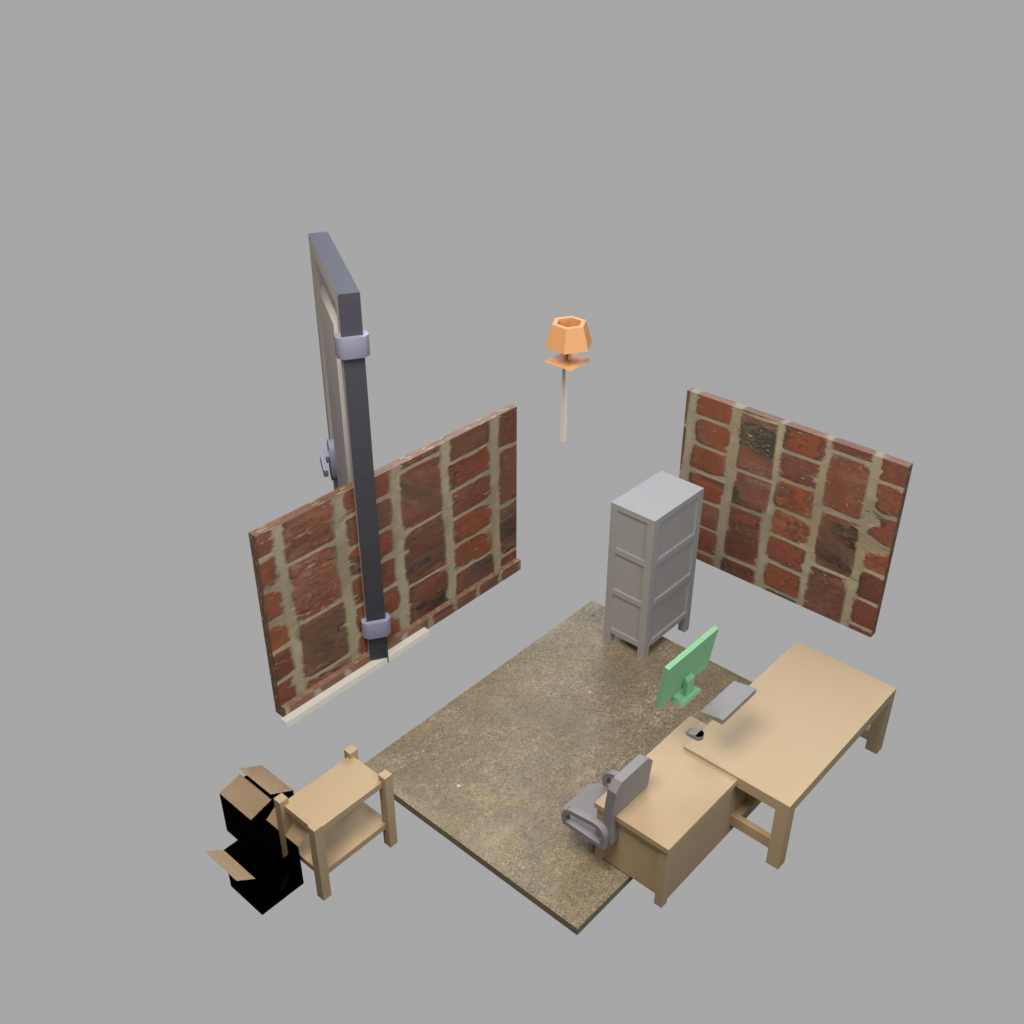
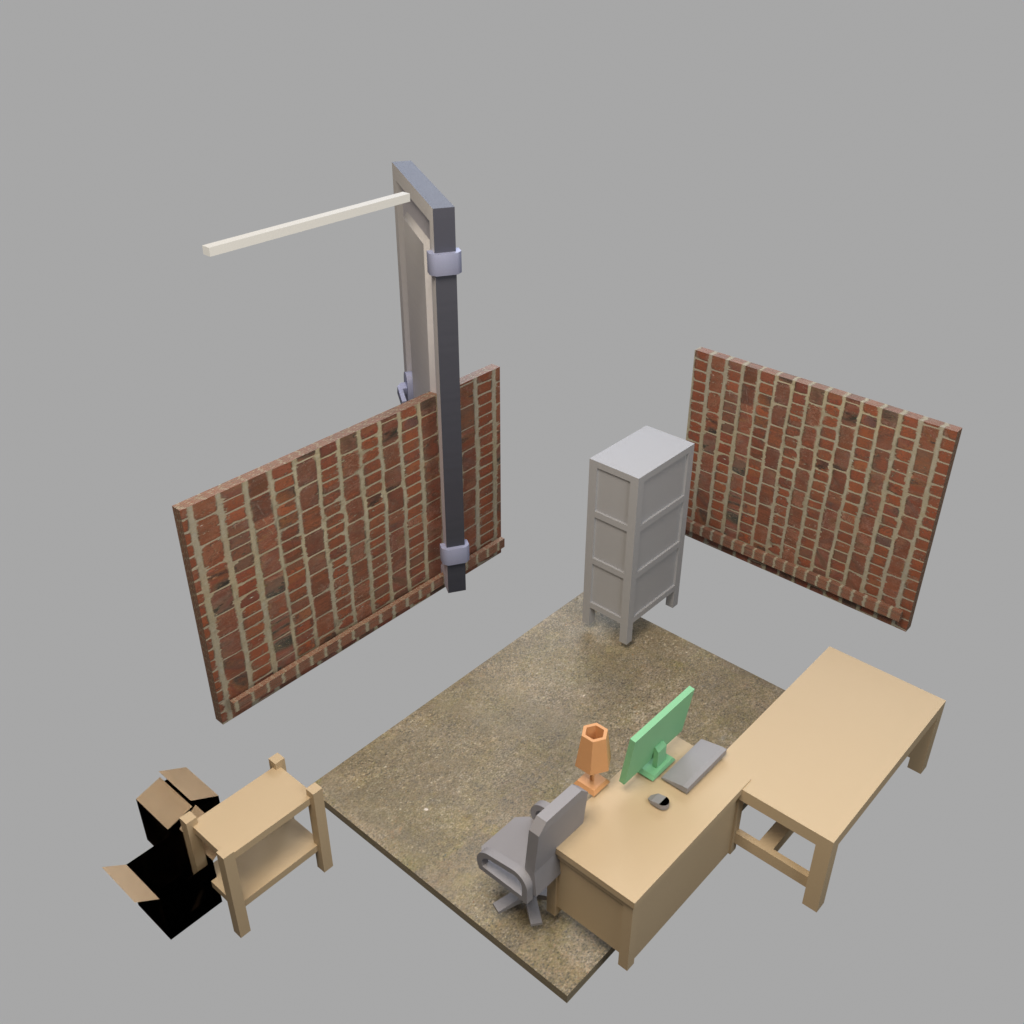
fix(art): #93 snap L walls, door cut, desk lamp, prop bounds
- Separate back/side walls on floor slab edges z=0; brick UV ~4.2
- Boolean door opening; roll door at floor; lamp on desk; tighter layout
- Hard gate bounds_violations + 2cm floor on FLOOR_TOP; hero extent ~0.70

Ref #93

Changed region(s): [[0.0938, 0.1562, 0.9375, 1.0], [0.5312, 0.3125, 0.5938, 0.375], [0.4688, 0.75, 0.5, 0.7812]]

diff --git a/tools/art/blender/garage-scene-hero-compose.py b/tools/art/blender/garage-scene-hero-compose.py
@@ -1,5 +1,5 @@
 #!/usr/bin/env python3
-"""Cut-away garage hero — joined L walls + ambientCG PBR + Kenney whole models."""
+"""Cut-away garage — floor-edge L walls, ambientCG PBR, Kenney whole models."""
 from __future__ import annotations
 
 import json
@@ -19,11 +19,31 @@ WALL_H = 2.45
 WALL_T = 0.12
 FLOOR_Z = 0.0
 FLOOR_TOL = 0.02
+FLOOR_TOP = 0.09
+MARGIN_XY = 0.06
 
-CEILING_KEYS = {"ceiling_light", "light_cable"}
-DESK_TOP_KEYS = {"monitor", "keyboard", "mouse", "computerScreen", "computerKeyboard", "computerMouse"}
-WALL_KEYS = {"roll_door", "strip_light", "building_door"}
-SHELL_NAMES = ("shell_floor", "shell_walls_L", "shell_skirting", "strip_light")
+CEILING_KEYS = {"light_cable"}
+DESK_TOP_KEYS = {"monitor", "keyboard", "mouse", "desk_lamp"}
+WALL_KEYS = {"roll_door", "strip_light"}
+SHELL_NAMES = (
+    "shell_floor",
+    "shell_wall_back",
+    "shell_wall_side",
+    "shell_skirting",
+    "shell_skirting_side",
+    "strip_light",
+)
+
+BRICK_UV = 4.2
+CONCRETE_UV = 2.2
+
+
+def _snap_bottom_z(ob: bpy.types.Object, floor: float = 0.0) -> None:
+    bpy.context.view_layer.update()
+    low = min((ob.matrix_world @ v.co).z for v in ob.data.vertices)
+    if abs(low - floor) > 1e-5:
+        ob.location.z += floor - low
+    bpy.context.view_layer.update()
 
 
 def _cube(loc: tuple[float, float, float], scale: tuple[float, float, float]) -> bpy.types.Object:
@@ -35,7 +55,7 @@ def _cube(loc: tuple[float, float, float], scale: tuple[float, float, float]) ->
 
 
 def _strip_light() -> bpy.types.Object:
-    ob = _cube((ROOM_W * 0.62, 0.16, WALL_H - 0.18), (ROOM_W * 0.28, 0.05, 0.04))
+    ob = _cube((ROOM_W * 0.55, WALL_T + 0.04, WALL_H - 0.16), (ROOM_W * 0.26, 0.045, 0.035))
     ob.name = "strip_light"
     mat = bpy.data.materials.new("strip_light_emit")
     mat.use_nodes = True
@@ -45,12 +65,11 @@ def _strip_light() -> bpy.types.Object:
     out = nodes.new("ShaderNodeOutputMaterial")
     emit = nodes.new("ShaderNodeEmission")
     emit.inputs["Color"].default_value = (0.92, 0.9, 0.82, 1.0)
-    emit.inputs["Strength"].default_value = 1.1
+    emit.inputs["Strength"].default_value = 1.0
     bsdf = nodes.new("ShaderNodeBsdfPrincipled")
-    bsdf.inputs["Base Color"].default_value = (0.78, 0.76, 0.7, 1.0)
     bsdf.inputs["Roughness"].default_value = 0.55
     mix = nodes.new("ShaderNodeMixShader")
-    mix.inputs["Fac"].default_value = 0.55
+    mix.inputs["Fac"].default_value = 0.5
     links.new(emit.outputs["Emission"], mix.inputs[1])
     links.new(bsdf.outputs["BSDF"], mix.inputs[2])
     links.new(mix.outputs["Shader"], out.inputs["Surface"])
@@ -59,83 +78,91 @@ def _strip_light() -> bpy.types.Object:
     return ob
 
 
-def build_shell(acg) -> list[bpy.types.Object]:
-    floor = _cube((ROOM_W * 0.5, ROOM_D * 0.5, 0.045), (ROOM_W * 0.5, ROOM_D * 0.5, 0.045))
+def build_shell(acg) -> None:
+    floor = _cube((ROOM_W * 0.5, ROOM_D * 0.5, FLOOR_TOP * 0.5), (ROOM_W * 0.5, ROOM_D * 0.5, FLOOR_TOP * 0.5))
     floor.name = "shell_floor"
-    acg.assign(floor, "concrete", uv_scale=2.2)
+    acg.assign(floor, "concrete", uv_scale=CONCRETE_UV)
 
-    back = _cube((ROOM_W * 0.5, WALL_T * 0.5, WALL_H * 0.5), (ROOM_W * 0.5, WALL_T * 0.5, WALL_H * 0.5))
-    side = _cube((WALL_T * 0.5, ROOM_D * 0.5, WALL_H * 0.5), (WALL_T * 0.5, ROOM_D * 0.5, WALL_H * 0.5))
-    bpy.ops.object.select_all(action="DESELECT")
-    back.select_set(True)
-    side.select_set(True)
-    bpy.context.view_layer.objects.active = back
-    bpy.ops.object.join()
-    walls = bpy.context.active_object
-    walls.name = "shell_walls_L"
-    cutter = _cube((ROOM_W * 0.58, 0.22, 1.15), (0.52, 0.18, 1.02))
+    back = _cube(
+        (ROOM_W * 0.5, WALL_T * 0.5, WALL_H * 0.5),
+        (ROOM_W * 0.5, WALL_T * 0.5, WALL_H * 0.5),
+    )
+    back.name = "shell_wall_back"
+    side = _cube(
+        (WALL_T * 0.5, ROOM_D * 0.5, WALL_H * 0.5),
+        (WALL_T * 0.5, ROOM_D * 0.5, WALL_H * 0.5),
+    )
+    side.name = "shell_wall_side"
+    for ob in (floor, back, side):
+        _snap_bottom_z(ob, FLOOR_Z)
+
+    cutter = _cube((1.55, WALL_T + 0.12, 1.12), (0.48, 0.22, 0.95))
     cutter.name = "_door_cutter"
-    mod = walls.modifiers.new("DoorCut", "BOOLEAN")
+    mod = back.modifiers.new("DoorCut", "BOOLEAN")
     mod.operation = "DIFFERENCE"
     mod.object = cutter
-    bpy.context.view_layer.objects.active = walls
+    bpy.context.view_layer.objects.active = back
     bpy.ops.object.modifier_apply(modifier=mod.name)
     bpy.data.objects.remove(cutter, do_unlink=True)
-    acg.assign(walls, "brick", uv_scale=1.35)
 
-    skirt = _cube((ROOM_W * 0.5, 0.11, 0.08), (ROOM_W * 0.5, 0.04, 0.08))
-    skirt.name = "shell_skirting"
-    acg.assign(skirt, "brick", uv_scale=2.6)
+    acg.assign(back, "brick", uv_scale=BRICK_UV)
+    acg.assign(side, "brick", uv_scale=BRICK_UV)
 
-    strip = _strip_light()
-    for ob in (floor, walls, skirt, strip):
-        low = min((ob.matrix_world @ v.co).z for v in ob.data.vertices)
-        if low > 1e-4:
-            ob.location.z -= low
+    skirt_back = _cube((ROOM_W * 0.5, WALL_T + 0.02, 0.06), (ROOM_W * 0.48, 0.03, 0.06))
+    skirt_back.name = "shell_skirting"
+    skirt_side = _cube((WALL_T + 0.02, ROOM_D * 0.5, 0.06), (0.03, ROOM_D * 0.48, 0.06))
+    skirt_side.name = "shell_skirting_side"
+    _snap_bottom_z(skirt_back, FLOOR_TOP)
+    _snap_bottom_z(skirt_side, FLOOR_TOP)
+    acg.assign(skirt_back, "brick", uv_scale=BRICK_UV * 1.4)
+    acg.assign(skirt_side, "brick", uv_scale=BRICK_UV * 1.4)
+
+    _strip_light()
+
+
+def audit_prop_bounds(
+    objects: list[bpy.types.Object],
+    *,
+    x0: float,
+    y0: float,
+    x1: float,
+    y1: float,
+    margin: float = MARGIN_XY,
+    skip_prefix: tuple[str, ...] = ("shell_",),
+    skip_keys: tuple[str, ...] = CEILING_KEYS,
+    wall_keys: tuple[str, ...] = (),
+) -> list[str]:
+    errs: list[str] = []
     bpy.context.view_layer.update()
-    names = ("shell_floor", "shell_walls_L", "shell_skirting", "strip_light")
-    return [bpy.data.objects[n] for n in names if n in bpy.data.objects]
-
-
-def build_ceiling_light(kh) -> list[bpy.types.Object]:
-    objs: list[bpy.types.Object] = []
-    cable = _cube((ROOM_W * 0.55, ROOM_D * 0.48, 2.22), (0.02, 0.02, 0.55))
-    cable.name = "light_cable"
-    cable_mat = bpy.data.materials.new("light_cable_mat")
-    cable_mat.use_nodes = True
-    bsdf = cable_mat.node_tree.nodes.new("ShaderNodeBsdfPrincipled")
-    bsdf.inputs["Base Color"].default_value = (0.2, 0.2, 0.22, 1.0)
-    bsdf.inputs["Roughness"].default_value = 0.62
-    out = cable_mat.node_tree.nodes.new("ShaderNodeOutputMaterial")
-    cable_mat.node_tree.links.new(bsdf.outputs["BSDF"], out.inputs["Surface"])
-    cable.data.materials.append(cable_mat)
-    objs.append(cable)
-    lamp = kh.import_kenney(
-        "furniture",
-        "lamp",
-        (ROOM_W * 0.55, ROOM_D * 0.48, 2.38),
-        scale=(1.2, 1.2, 0.55),
-        palette_key="trim",
-        up_axis="Z",
-        floor_snap=False,
-    )
-    if lamp:
-        lamp.name = "ceiling_light"
-        objs.append(lamp)
-    return objs
+    for ob in objects:
+        if ob.type != "MESH":
+            continue
+        if ob.name.startswith(skip_prefix):
+            continue
+        if any(k in ob.name for k in skip_keys):
+            continue
+        if any(k in ob.name for k in wall_keys):
+            continue
+        for v in ob.data.vertices:
+            p = ob.matrix_world @ v.co
+            if p.x < x0 - margin or p.x > x1 + margin or p.y < y0 - margin or p.y > y1 + margin:
+                errs.append(f"{ob.name}: xy out of floor ({p.x:.2f},{p.y:.2f})")
+                break
+    return errs
 
 
 def build_furniture(kh) -> list[bpy.types.Object]:
     props: list[bpy.types.Object] = []
+    door_x, door_y = 1.55, WALL_T + 0.14
     specs = [
-        ("building", "door", (ROOM_W * 0.58, 0.16, FLOOR_Z), 0.0, 1.12, "metal", "roll_door"),
-        ("furniture", "workbench", (0.95, ROOM_D - 0.85, FLOOR_Z), 0.0, 1.32, "desk", "workbench"),
-        ("furniture", "server_rack", (0.78, 1.05, FLOOR_Z), 90.0, 1.22, "metal", "server_rack"),
-        ("furniture", "shelf", (ROOM_W - 0.82, 0.95, FLOOR_Z), -90.0, 1.18, "desk", "shelf_low"),
-        ("furniture", "box_closed", (ROOM_W - 0.55, 0.55, FLOOR_Z), 14.0, 1.2, "cardboard", "box_a"),
-        ("furniture", "box_open", (ROOM_W - 0.35, 0.85, FLOOR_Z), -8.0, 1.15, "cardboard", "box_b"),
-        ("furniture", "desk", (1.85, ROOM_D - 0.95, FLOOR_Z), -8.0, 1.08, "desk", "desk"),
-        ("furniture", "chair", (2.35, ROOM_D - 1.15, FLOOR_Z), 22.0, 1.05, "plastic", "chair"),
+        ("building", "door", (door_x, door_y, FLOOR_TOP), 0.0, 1.02, "metal", "roll_door"),
+        ("furniture", "workbench", (1.08, ROOM_D - 0.78, FLOOR_TOP), 6.0, 1.22, "desk", "workbench"),
+        ("furniture", "server_rack", (0.82, 0.95, FLOOR_TOP), 90.0, 1.18, "metal", "server_rack"),
+        ("furniture", "shelf", (ROOM_W - 0.78, 0.92, FLOOR_TOP), -88.0, 1.12, "desk", "shelf_low"),
+        ("furniture", "box_closed", (ROOM_W - 0.58, 0.52, FLOOR_TOP), 10.0, 1.1, "cardboard", "box_a"),
+        ("furniture", "box_open", (ROOM_W - 0.38, 0.78, FLOOR_TOP), -6.0, 1.08, "cardboard", "box_b"),
+        ("furniture", "desk", (2.05, ROOM_D - 1.02, FLOOR_TOP), -10.0, 1.05, "desk", "desk"),
+        ("furniture", "chair", (2.62, ROOM_D - 1.28, FLOOR_TOP), 18.0, 1.02, "plastic", "chair"),
     ]
     for pack, asset, loc, rot, sc, pal, inst in specs:
         ob = kh.import_kenney(
@@ -149,27 +176,46 @@ def build_furniture(kh) -> list[bpy.types.Object]:
         )
         if ob:
             ob.name = f"kenney_{inst}"
+            _snap_bottom_z(ob, FLOOR_TOP)
             props.append(ob)
-    desk_x, desk_y = 1.85, ROOM_D - 0.95
-    desk_z = 0.74
-    for asset, off, name in (
-        ("screen", (0.0, 0.0, desk_z), "monitor"),
-        ("keyboard", (-0.06, 0.18, desk_z - 0.02), "keyboard"),
-        ("mouse", (0.38, 0.2, desk_z - 0.02), "mouse"),
-    ):
-        ob = kh.import_kenney(
+
+    desk = bpy.data.objects.get("kenney_desk")
+    if desk:
+        top_z = max((desk.matrix_world @ v.co).z for v in desk.data.vertices)
+        desk_xy = (desk.matrix_world.translation.x, desk.matrix_world.translation.y)
+        for asset, dx, dy, name, pal in (
+            ("screen", 0.0, 0.02, "monitor", "screen"),
+            ("keyboard", -0.05, 0.14, "keyboard", "plastic"),
+            ("mouse", 0.34, 0.16, "mouse", "plastic"),
+        ):
+            ob = kh.import_kenney(
+                "furniture",
+                asset,
+                (desk_xy[0] + dx, desk_xy[1] + dy, top_z + 0.5),
+                rot_z_deg=-10.0,
+                scale=1.0,
+                palette_key=pal,
+                up_axis="Z",
+                floor_snap=False,
+            )
+            if ob:
+                ob.name = f"kenney_{name}"
+                _snap_bottom_z(ob, top_z + 0.01)
+                props.append(ob)
+
+        lamp = kh.import_kenney(
             "furniture",
-            asset,
-            (desk_x + off[0], desk_y + off[1], off[2]),
-            rot_z_deg=-8.0,
-            scale=1.05,
-            palette_key="screen" if asset == "screen" else "plastic",
+            "lamp",
+            (desk_xy[0] + 0.38, desk_xy[1] - 0.1, top_z + 0.5),
+            scale=0.85,
+            palette_key="trim",
             up_axis="Z",
             floor_snap=False,
         )
-        if ob:
-            ob.name = f"kenney_{name}"
-            props.append(ob)
+        if lamp:
+            lamp.name = "kenney_desk_lamp"
+            _snap_bottom_z(lamp, top_z + 0.01)
+            props.append(lamp)
     return props
 
 
@@ -179,12 +225,7 @@ def main() -> None:
 
     bpy.ops.wm.read_factory_settings(use_empty=True)
     build_shell(acg)
-    for n in ("shell_floor", "shell_walls_L", "shell_skirting"):
-        ob = bpy.data.objects.get(n)
-        if ob:
-            kh.snap_to_floor_z(ob, FLOOR_Z)
     props = build_furniture(kh)
-    props += build_ceiling_light(kh)
 
     all_meshes = [bpy.data.objects[n] for n in SHELL_NAMES if n in bpy.data.objects] + props
 
@@ -193,15 +234,22 @@ def main() -> None:
     gnd_errs = kh.audit_grounding(
         all_meshes,
         up_axis="Z",
-        floor=FLOOR_Z,
+        floor=FLOOR_TOP,
         wall_mounted=WALL_KEYS,
         ceiling_mounted=CEILING_KEYS,
         exempt=DESK_TOP_KEYS,
         wall_plane="side",
-        wall_coord=0.16,
+        wall_coord=WALL_T,
         tol_floor=FLOOR_TOL,
-        tol_wall=0.32,
-        ceiling_z=2.05,
+        tol_wall=0.28,
+    )
+    xy_errs = audit_prop_bounds(
+        props,
+        x0=0.0,
+        y0=0.0,
+        x1=ROOM_W,
+        y1=ROOM_D,
+        wall_keys=tuple(WALL_KEYS),
     )
     if map_errs:
         raise RuntimeError(f"shell PBR: {map_errs}")
@@ -209,6 +257,8 @@ def main() -> None:
         raise RuntimeError(f"roughness: {rough_errs[:6]}")
     if gnd_errs:
         raise RuntimeError(f"grounding (>2cm): {gnd_errs[:8]}")
+    if xy_errs:
+        raise RuntimeError(f"prop bounds: {xy_errs[:8]}")
 
     import blender_preview_rig as rig  # type: ignore
 
@@ -219,10 +269,10 @@ def main() -> None:
         out,
         resolution=1024,
         up_axis="Z",
-        lens_mm=38.0,
+        lens_mm=36.0,
         azimuth_deg=42.0,
         elevation_deg=32.0,
-        framing_margin=0.66,
+        framing_margin=0.58,
         mask_meshes=all_meshes,
         hdri_path=HDRI if HDRI.is_file() else None,
         hdri_strength=0.4,
@@ -238,17 +288,18 @@ def main() -> None:
     meta["grounding_violations"] = kh.audit_grounding(
         all_meshes,
         up_axis="Z",
-        floor=FLOOR_Z,
+        floor=FLOOR_TOP,
         wall_mounted=WALL_KEYS,
         ceiling_mounted=CEILING_KEYS,
         exempt=DESK_TOP_KEYS,
         wall_plane="side",
-        wall_coord=0.16,
+        wall_coord=WALL_T,
         tol_floor=FLOOR_TOL,
-        tol_wall=0.32,
-        ceiling_z=2.05,
+        tol_wall=0.28,
     )
+    meta["bounds_violations"] = xy_errs
     meta["roughness_violations"] = rough_errs
+    meta["floor_top_z"] = FLOOR_TOP
     meta_path.write_text(json.dumps(meta, indent=2) + "\n", encoding="utf-8")
     print("OK garage-scene-urp-hero", out, "meshes", len(all_meshes))
 

diff --git a/tools/art/check_garage_urp_hero_preview.py b/tools/art/check_garage_urp_hero_preview.py
@@ -17,7 +17,7 @@ MIN_EXTENT = 0.55
 MAX_EXTENT = 0.78
 FLOOR_FLOAT_MAX_M = 0.02
 MIN_ROUGH = 0.2
-MAX_MASK_HERO_EXTENT_DELTA = 0.12
+MAX_MASK_HERO_EXTENT_DELTA = 0.14
 MAGENTA_FRAC_MAX = 0.002
 MAGENTA_MIN_R = 235
 MAGENTA_MAX_G = 45
@@ -304,6 +304,9 @@ def main() -> int:
         floaters = meta.get("grounding_violations") or []
         if floaters:
             errs.append(f"floating_meshes ({len(floaters)}): {floaters[:4]}")
+        bounds = meta.get("bounds_violations") or []
+        if bounds:
+            errs.append(f"prop_bounds ({len(bounds)}): {bounds[:4]}")
         rough = meta.get("roughness_violations") or []
         if rough:
             errs.append(f"roughness_violations ({len(rough)}): {rough[:4]}")
